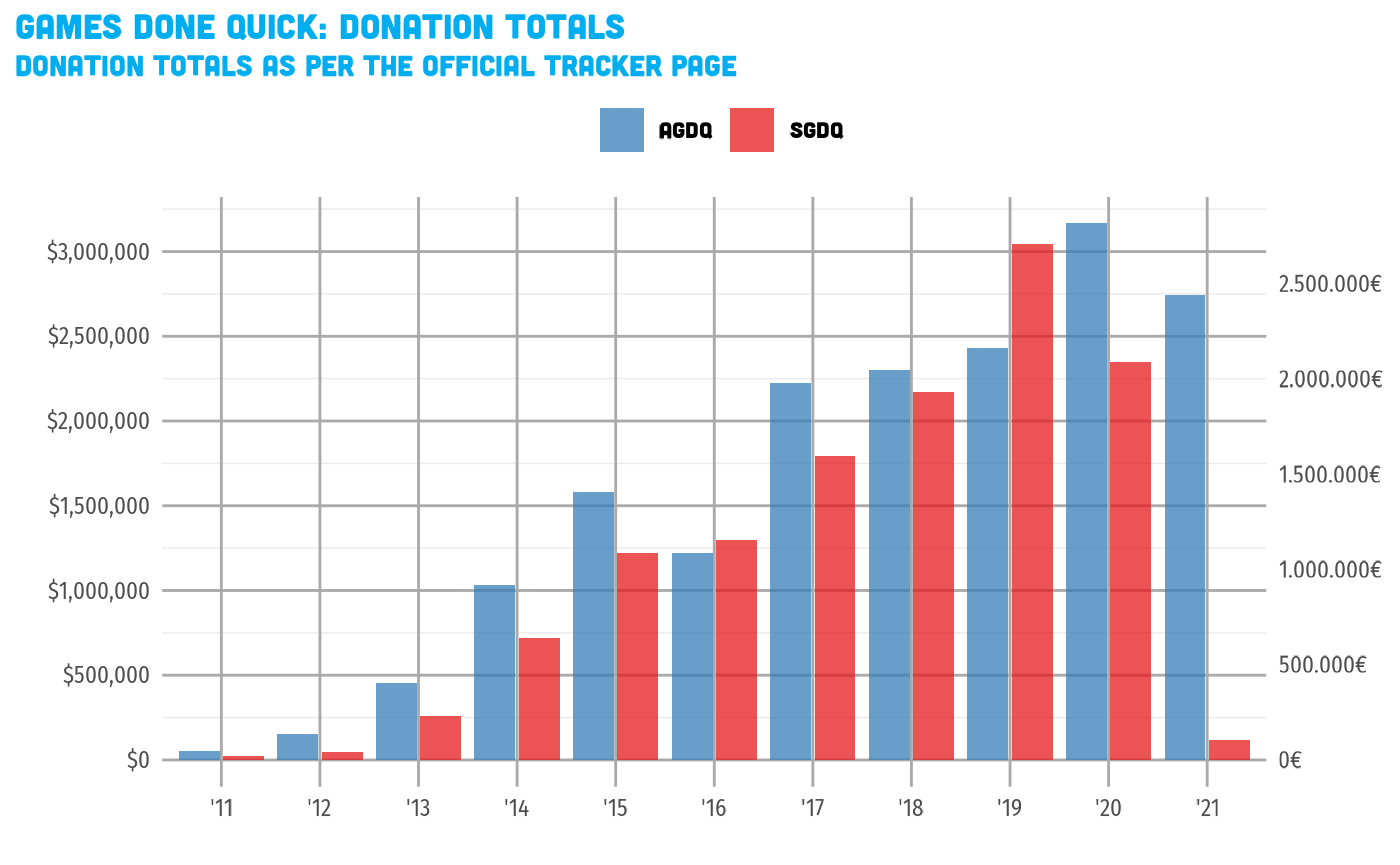
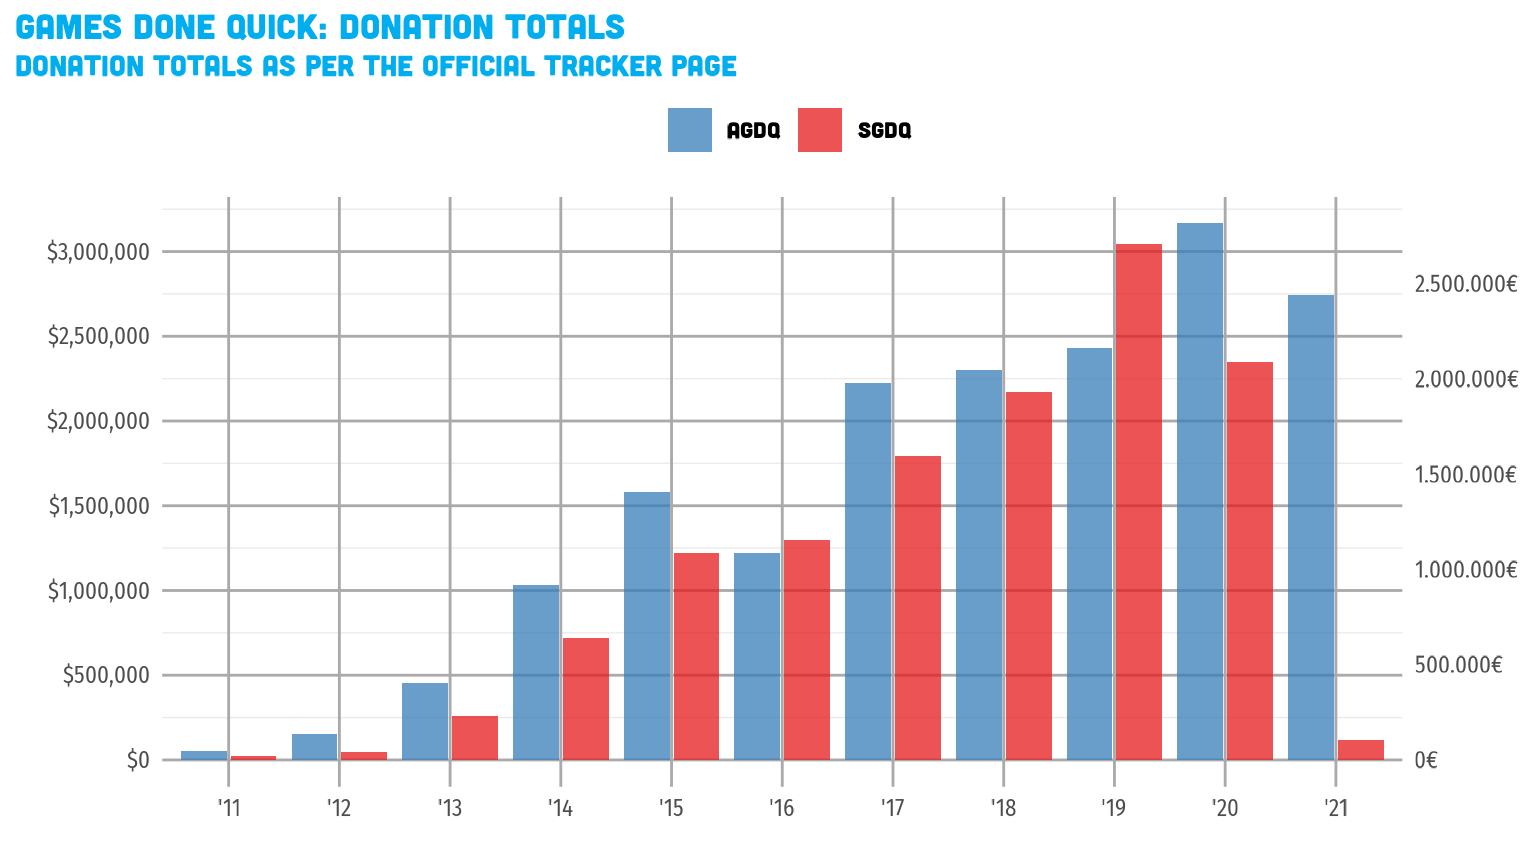
Built site for gdqdonations: 0.0.0.9000@7f4a0df

diff --git a/articles/articles/all-events.html b/articles/articles/all-events.html
@@ -145,7 +145,7 @@
     subtitle <span class="op">=</span> <span class="st">"Donation totals as per the official tracker page"</span>
   <span class="op">)</span> <span class="op">+</span>
   <span class="fu"><a href="../../reference/plotting.html">theme_gdq</a></span><span class="op">(</span><span class="op">)</span></code></pre></div>
-<p><img src="all-events_files/figure-html/gdq-donation-totals-1.png" width="700"></p>
+<p><img src="all-events_files/figure-html/gdq-donation-totals-1.png" width="768" style="display: block; margin: auto;"></p>
   </div>
 
   <div class="col-md-3 hidden-xs hidden-sm" id="pkgdown-sidebar">

diff --git a/reference/get_page_count.html b/reference/get_page_count.html
@@ -145,7 +145,7 @@
 
     <h2 class="hasAnchor" id="examples"><a class="anchor" href="#examples"></a>Examples</h2>
     <pre class="examples"><div class='input'><span class='fu'>get_page_count</span><span class='op'>(</span>event <span class='op'>=</span> <span class='st'>"latest"</span><span class='op'>)</span>
-</div><div class='output co'>#&gt; [1] 40</div></pre>
+</div><div class='output co'>#&gt; [1] 41</div></pre>
   </div>
   <div class="col-md-3 hidden-xs hidden-sm" id="pkgdown-sidebar">
     <nav id="toc" data-toggle="toc" class="sticky-top">
